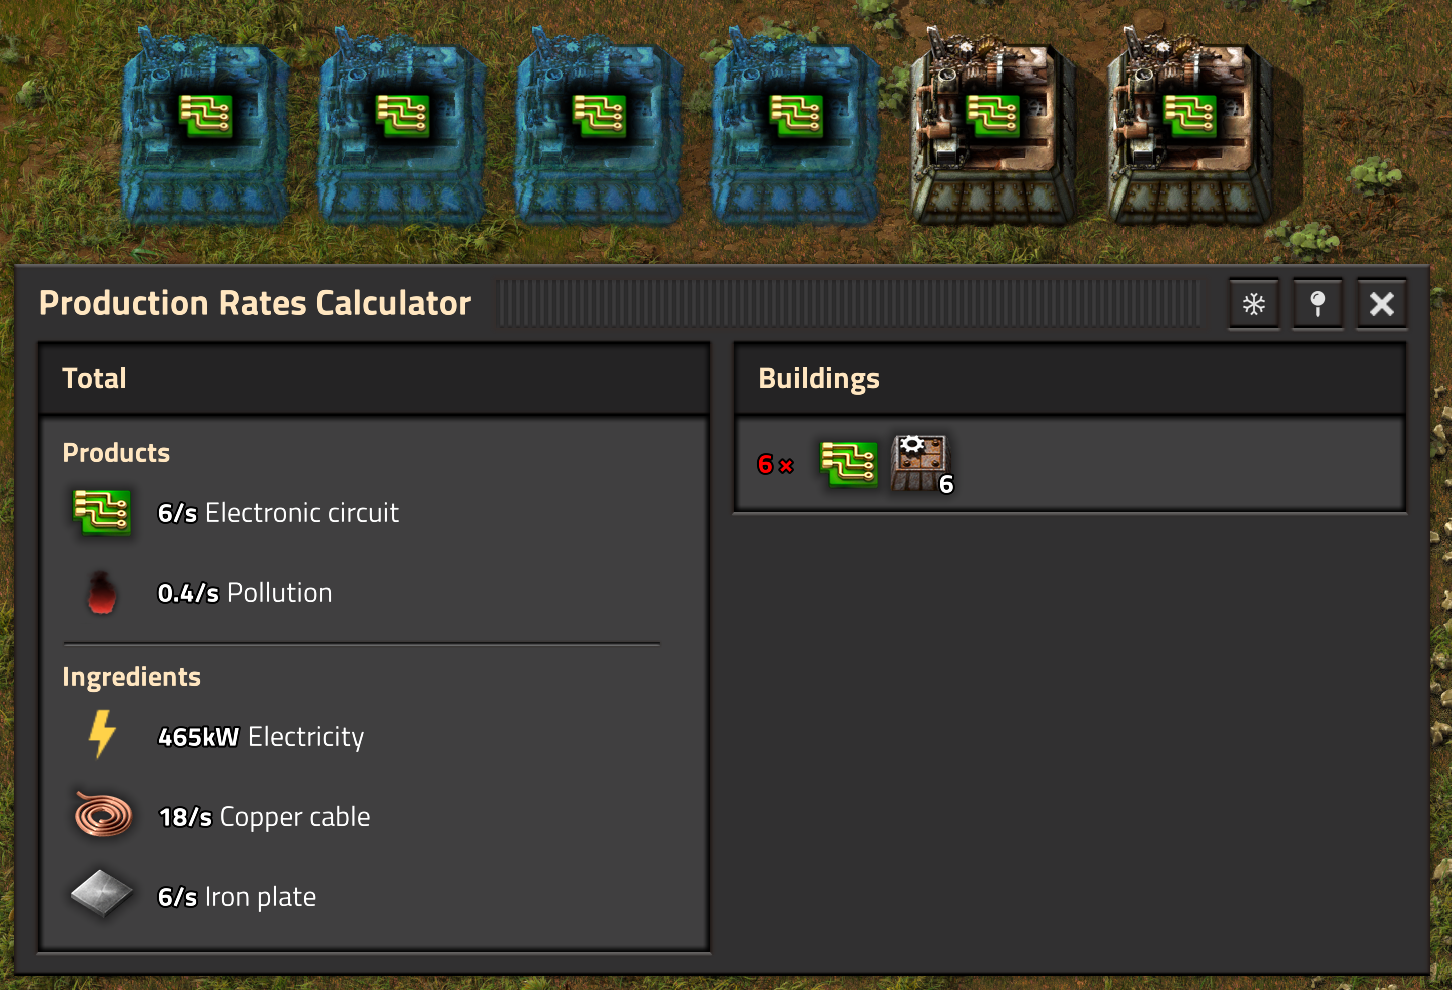
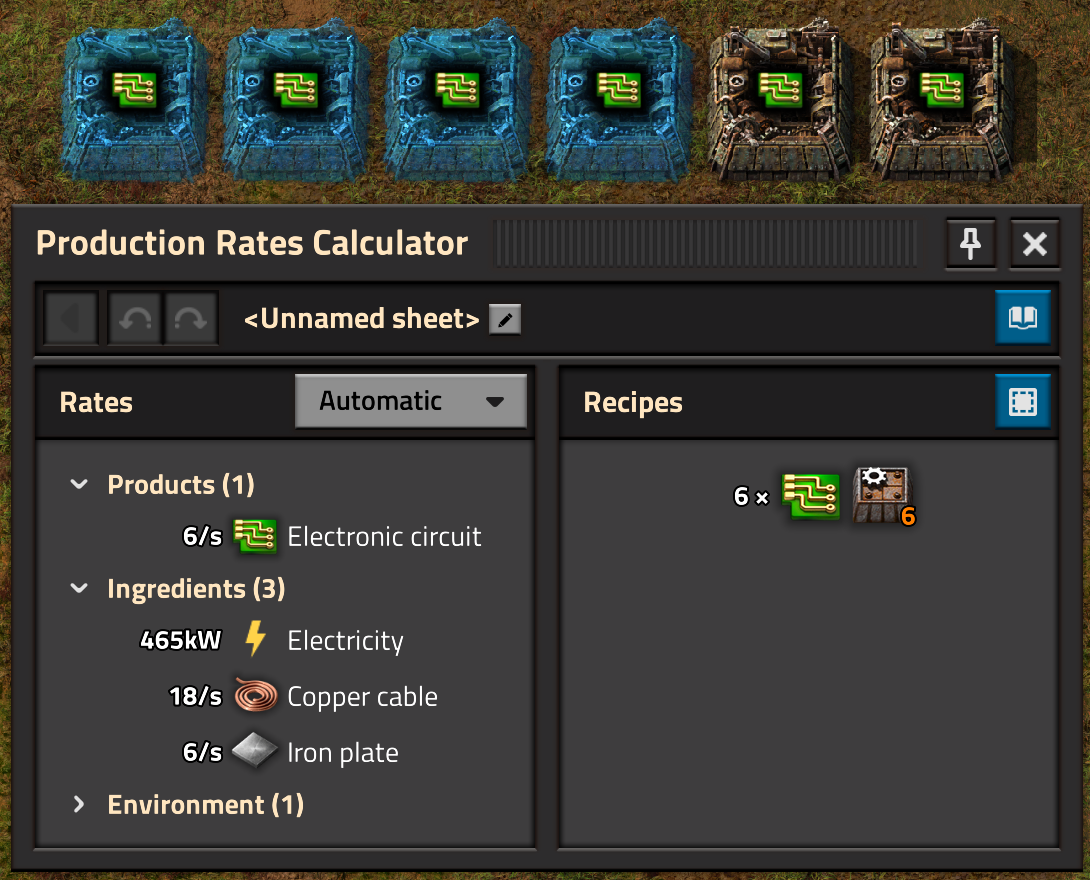
documentation

diff --git a/sw-rates-calc-extreme/docs/README.md b/sw-rates-calc-extreme/docs/README.md
@@ -6,22 +6,38 @@ At its heart Production Rates Calculator Extreme (PRCE) is a rate calculator mod
 ![](basic-select.png)
 
 If you do so, you will see the production rates of the selected buildings.
-On the left side you can see all products and ingredients. Each section is sorted by type (roughly: power, weird stuff, items, then fluids), then by rate. If rates are very small they might use minutes (`/m`) or hours (`/h`).
+On the left side you can see all products and ingredients. Each section is sorted by type (roughly: power, weird stuff, items, then fluids), then by rate.
 On the right side you can see all selected buildings, one line per "identical" building.
 
 ![](basic-rates.png)
 
-Factorio 2.0 already shows the production rates of a single machine, but if you are interested in more than 1 building you have to do some math in your head, and if you're still waiting for bots to finish building you're out of luck completely.
+Factorio already shows the production rates of a single machine, but if you are interested in more than 1 building you have to do some math in your head, and even though module requests and ghost beacons are respected in 2.1 there are still some scenarios that don't show the final numbers.
 
 ![](basic-vanilla.png)
 
-To add to (or remove from) your selected buildings, hold `Shift` and click-drag using the left (or right) mouse button.
+The main toolbar hosts some very important buttons. Left-click the first icon to navigate back one step, or right-click for navigating all the way back to the overview. The undo/redo buttons interact with any changes you make to the selection or settings. You can give a name to the sheet if you want to keep it for longer.
 
-Contrary to other mods, PRCE keeps track of the buildings themselves. This means you can't increase building count by adding the same building multiple times. However, you can copy-paste and select those ghost buildings.
+![](basic-rename.png)
+
+The library gives you access to all your named sheets as well as the last 5 unnamed sheets. The first click gives you a preview, the second click opens the sheet. The time you can see next to each sheet is the playtime of the last change.
+
+![](basic-library.png)
+
+ Configure how you want to see item/fluid rates using the dropdown. `Automatic` displays rates per second `/s` by default, with a fallback to minutes (`/m`) or hours (`/h`) for small numbers.
+
+![](basic-timescale.png)
+
+To add to (or remove from) your selected buildings, click-drag using the left (or right) mouse button. When holding shift you can increase (or decrease) how often the selected buildings are counted. By holding control+shift you start a new sheet from scratch instead of modifying your current sheet.
+
+Selecting the tool while it is already active opens the window with the last sheet.
+
+Multi-selecting buildings using shift is just one way of many. You can also build ghosts and select those (good to get a feeling for the space requirements) or ignore building counts completely (explained later).
 
 ![](basic-ghosts.png)
 
-Keeping track of the buildings allows you to make small changes (manually or via undo/redo) and then update everything by `Shift`-selecting an empty area. This is especially useful when selecting buildings from different parts of your base. As an example, here I have upgraded all 6 buildings and then updated PRCE by `Shift`-selecting nothing.
+PRCE keeps track of the buildings, which allows you to make small changes (manually or via undo/redo) and then update everything by reopening the window. As an example, here I have upgraded all 6 buildings and then updated PRCE.
+
+The selected buildings are only evaluated when the window opens or the selection changes. This keeps the navigation smooth when doing other changes.
 
 ![](basic-upgrade.png)
 
@@ -29,19 +45,25 @@ Everything gets a lot more interesting with more than just one building type. In
 
 ![](basic-intermediates.png)
 
-Let's add some modules into the mix! Suddenly the ratio isn't perfect anymore. The right side tells you that there are 3 buildings for copper cable and 2 buildings for electronic circuits, but of the former only 2.78 are actually running (on average). They produce 8.1/s copper cable which is exactly the amount you need for the electronic circuits. If the used building count is white there is still headroom left, if red all the buildings are used - not necessarily a bad thing.
+Let's add some modules into the mix! Suddenly the ratio isn't perfect anymore. The right side tells you that there are 3 buildings for copper cable and 2 buildings for electronic circuits, but of the former only 2.78 are actually running (on average). They produce 8.1/s copper cable which is exactly the amount you need for the electronic circuits. If the building count is white there is still headroom left, if orange all the buildings are used - not necessarily a bad thing.
 
 ![](basic-balanced.png)
 
-By default, intermediates are automatically balanced (icon is red), but it's possible to not balance (icon is white). Click the icon to change between the two modes. Even if an intermediate is not forced to be balanced it might still be balanced because the rates turned out that way.
+By default, intermediates are automatically balanced (lock icon is locked), but it's possible to not balance (lock icon is unlocked). Right-click the icon to change between the two modes. Even if an intermediate is not forced to be balanced it might still be balanced because the rates turned out that way.
 
-Here the copper cables are unbalanced and PRCE tells you that 8.1/s are used internally and another 0.65/s can be exported. These are the numbers that most other mods calculate, but with no way to switch to balanced intermediates.
+Here the copper cables are unbalanced and PRCE tells you that 8.1/s are used internally and another 0.65/s can be exported. These are the numbers that most other mods calculate, but with no way to switch to balanced intermediates. The belts just exist to showcase a scenario where this makes sense.
 
 ![](basic-override.png)
 
-Let's have a closer look at the right side of the window. Every row shows the effective building count (red for 100% utilization), the used recipe, the used building (and the number of buildings), the used modules (and their number per building), and the used beacons with modules (per beacon). If buildings are not exactly the same they go into two different rows. All of these buildings produce copper cables, but they are all different.
+Let's have a closer look at the right side of the window. Every row shows the effective building count, the used recipe, the used building, the number of buildings (in orange for 100% utilization), the used fuel (if configured) the used modules (and their number per building), and the used beacons with modules (per beacon). Beacons without a count mean 1 beacon, modules without a count mean the full building/beacon.
+
+If buildings are not exactly the same they go into two different rows. All of these buildings produce copper cables, but they are all different. Some similar buildings might be automatically grouped, you can expand those to get the full view.
 
 ![](basic-configurations.png)
+
+If you don't know how many buildings you need you can assume an infinite number by right-clicking the building icon. This should be simpler than increasing the number by shift-selecting multiple times or a massive amount of ghosts. In this example all building counts except for the transport belts are ignored (number shown in grey).
+
+![](basic-building-count.png)
 
 In vanilla factorio the assembling machines are the most important type of building, with furnaces being a close second. Especially in early game you are building furnace stacks to smelt your ores into plates.
 
@@ -56,17 +78,19 @@ PRCE does not analyze belt throughput and connectivity, it is "only" determining
 
 For example, 8 of the 10 mining drills are not connected, and PRCE still shows the ratio as if all stone from mining drills will reach the stone furnaces. You still have to design a proper build, with full connectivity and enough throughput on belts/inserters. PRCE is a rate calculator, and the item detection exists to help with furnace ghosts.
 
-This system isn't perfect yet, e.g. some building types are missing and spoilage is not respected. One well-placed inserter with a filter should be enough to select the recipe and calculate ratios.
+This system isn't perfect yet, e.g. spoilage is not respected, but in most cases it is working very well. If not, one well-placed inserter with a filter should be enough to select the recipe and calculate ratios.
 
 ![](basic-item-tracking.png)
 
-By the way, the above example shows some weird ingredients: burnable fuel and stone.
-
-The burnable fuel is the fuel category accepted by the stone furnace. If you want to use coal you can set a filter on the fuel inventory. There is no item detection for fuels to minimize the performance-heavy belt tracing.
+By the way, the above example shows burnable fuel as an ingredient. This is the fuel category accepted by the stone furnace. If you want to use coal you can set a filter on the fuel inventory. There is no item detection for fuels to minimize the performance-heavy belt tracing.
 
 ![](basic-fuel.png)
 
-The stone is not the __item__ stone, it is the __resource__ stone on the map. Productivity modules, mining productivity research and better mining drills with better (less) resource drain all influence this value. This is one mighty mining drill!
+Alternatively you can configure a burnable fuel by clicking its icon and adding any fuel you want (or multiple).
+
+![](configure-fuel.png)
+
+The environment section lists everything happening on the map, most importantly resource consumption and pollution. Productivity modules, mining productivity research and better mining drills with better (less) resource drain all influence resource consumption. This is one mighty mining drill!
 
 ![](basic-resource.png)
 
@@ -74,11 +98,15 @@ Sometimes the fluid (and their temperatures) are important. In those cases PRCE 
 
 ![](basic-steam.png)
 
-Two fluids of different temperature are different things. They don't interact and you won't get the results you want. Connecting the pipes does help. By the way, the water temperature does matter, but you normally don't create water with a temperature different from the default. Play overhaul mods and this might change. Connect the water pipes properly and that warning will also go away.
+Two fluids of different temperature are different things. They don't interact and you won't get the results you want. Steam turbines use a different default temperature.
+
+![](basic-no-pipe-tracking.png)
+
+Connecting the pipes does help. By the way, the water temperature does matter, but you normally don't create water with a temperature different from the default. Play overhaul mods and this might change. Connect the water pipes properly and that warning will also go away.
 
 ![](basic-pipe-tracking.png)
 
-Many buildings "just work". For example, here is my very first spaceship I built and the rates in PRCE - just one selection, nothing more.
+When it comes to Space Age, many buildings "just work". For example, here is my very first spaceship I built and the rates in PRCE - just one selection, nothing more.
 
 ![](basic-space.png)
 
@@ -86,8 +114,12 @@ A few notes about that:
 - Electricity is not linked by default. If you have power-producing buildings, you are often interested in the surplus of energy.
 - The calculated thrust is using the thrusters' efficiency profile.
 - Solar panels use the solar power of Nauvis orbit (where this ship is currently sitting).
-- I didn't filter the asteroid collectors, and so all 4 appear multiple times. (The same would happen if you feed a sushi belt into a recycler).
+- I didn't filter the asteroid collectors, and so all 4 appear multiple times. (The same would happen if you feed a sushi belt into a recycler). At least they are automatically grouped.
 - Rates of asteroid collectors are just a good guess, and they assume that there are always asteroid chunks to grab. Definitely build more than what PRCE thinks is a perfect ratio.
+
+You can even select buildings from multiple surfaces. If you do so, PRCE keeps them separate and you can export products to different surfaces. Exporting from a platform is free, exporting from a planet costs rocket lauches (which are "produced" by rocket silos). To simplify things (and because 2.1 added mixed rockets) the rocket launches assume zero waste.
+
+![](basic-multi-surface.png)
 
 ## Under The Hood
 
@@ -123,7 +155,6 @@ This is a quite involved step, and it covers a lot of edge cases (probably not a
 Not covered right now are:
 - Spoilage
 - Items sent to orbit in rocket silo
-- Many other building types, so far I mostly started with assembling machines and furnaces
 - Detection of item fuels (for performance reasons and because there are fuel inventory filters)
 
 ### Configurations
